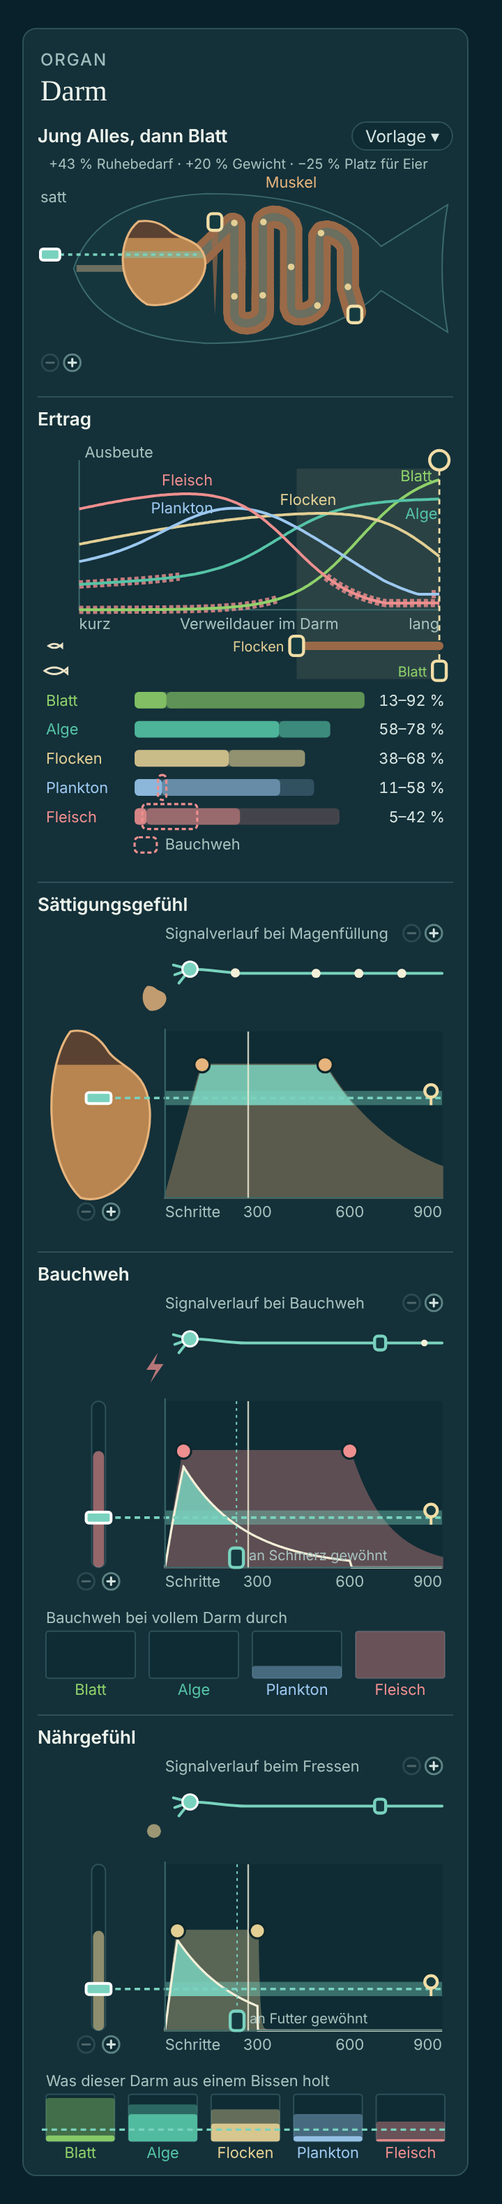
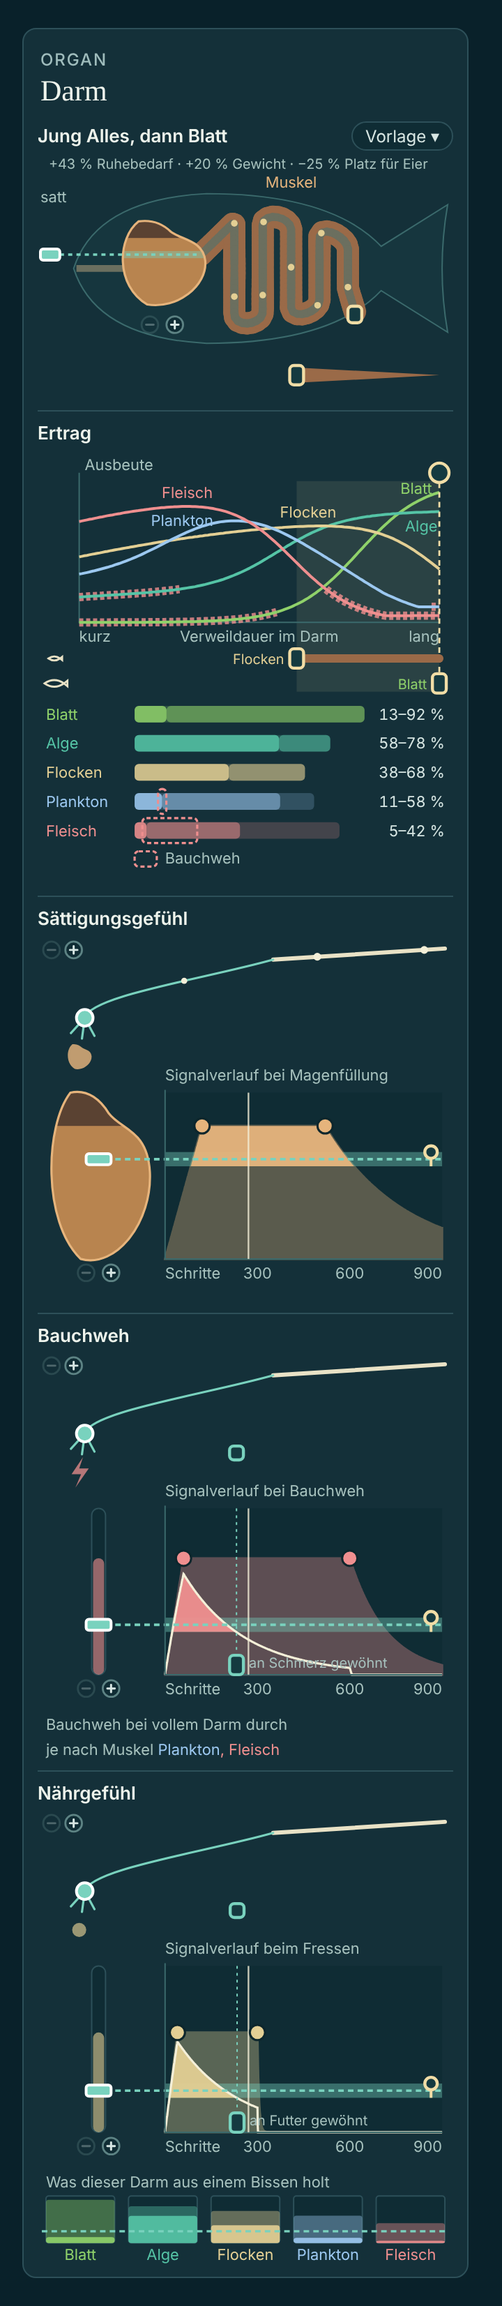
Darm: Korrekturen nach David 01:50; KOORD: Frage zum Nährsinn an Claude und Astra
Claude-Session: https://claude.ai/code/session_01BFTVBFr3n4RiE4TcZDiSTc

diff --git a/entwuerfe/inspektoren.html b/entwuerfe/inspektoren.html
@@ -67,7 +67,7 @@ const clamp = (x, a, b) => Math.max(a, Math.min(b, x));
 const path = pts => 'M' + pts.map(([x, y]) => `${x.toFixed(1)} ${y.toFixed(1)}`).join(' L');
 const COLOUR = {axis : '#3b6a6c', track : '#0f2c34', trackEdge : '#2d5059', line : '#f4efd8', handle : '#f1dda6', chosen : '#ffffff', unchosen : '#0d262c',
                 sore : '#ef8f8f', stomach : '#c98f55', stomachEdge : '#e6b47c', stomachBack : '#5a4232', tube : '#6b6f5f', muscle : '#9a6a48', morsel : '#e3cf94',
-                body : '#16363e', icon : '#e9e2c6', chipEdge : '#5d8384', chipSign : '#d7e6e3', remove : '#e8a2b5', keys : ['#79d2be', '#c4a3f2', '#d4e06a']};
+                body : '#16363e', icon : '#e9e2c6', chipEdge : '#5d8384', chipSign : '#d7e6e3', remove : '#e8a2b5', keys : ['#79d2be', '#3d9484', '#c8f4ea']};
 const keyColour = i => COLOUR.keys[i % COLOUR.keys.length];
 // Two kinds of things are dragged, and they look different. A grip ('grip') sets the organ: dark
 // with a yellow edge. A knob ('knob') shapes an input the organ receives: a light dot in the
@@ -244,7 +244,8 @@ function run(id, k, stim) {
   return {sent, used};
 }
 // The step at which a key's last cell falls silent under this input: what it is used to has
-// risen to within its threshold of the input. Past the picture's steps if it never does.
+// risen to within its threshold of the input. Past the picture's steps if it never does, 0 if
+// the cell never sends at all.
 function silentStep(k, stim) {
   const last = Math.min(...cellGates(k)); let used = 0, heard = false;
   for (let st = 0; st <= STEPS; st++) {
@@ -252,11 +253,11 @@ function silentStep(k, stim) {
     if (heard && !hears) return st;
     heard ||= hears; used += (stim[st] - used) / k.used;
   }
-  return STEPS + 1;
+  return heard ? STEPS + 1 : 0;
 }
 // The pace of tiring that puts that step where it is wanted (the slower, the later).
 function usedFor(k, stim, step) {
-  if (silentStep({...k, used : USED[0]}, stim) > STEPS) return k.used;
+  if (!silentStep({...k, used : USED[1]}, stim)) return k.used;
   let [lo, hi] = USED;
   for (let n = 0; n < 24; n++) { const mid = (lo + hi) / 2; if (silentStep({...k, used : mid}, stim) < step) lo = mid; else hi = mid; }
   return hi;
@@ -293,7 +294,7 @@ function repaint() {
   document.getElementById('gut-kind').textContent = M().kind;
   for (const part of dirty) PAINT[part]();
   dirty.clear();
-  showMoment();
+  showMoment(); showNerves(0);
 }
 
 // ===== What moves: one clock =====
@@ -320,7 +321,7 @@ function onCurve([x0, y0], [x1, y1], [x2, y2], x) {
 }
 // The body's upper outline at x; the lower one mirrors it.
 const bodyTop = x => x < BACK[0] ? onCurve(NOSE, [30, 14], BACK, x) : onCurve(BACK, [200, 10], RUMP, x);
-const FISH = {down : 18, right : 12, height : 158}, KEY_X = 9, STOMACH = {x : 78, y : 60, rx : 31, ry : 30};
+const FISH = {down : 18, right : 12, height : 168}, KEY_X = 9, STOMACH = {x : 78, y : 60, rx : 31, ry : 30};
 const GUT = {left : 130, right : [150, 212], margin : 20, bulge : 7, folds : [2, 5]}, WALL = [1, 5], TUBE = 6;
 const lengthShare = () => (S.length - SHORTEST) / (LONGEST - SHORTEST);
 function stomachPath({x, y, rx : w, ry : h}) {
@@ -365,7 +366,7 @@ function gutWay() {
   for (let i = 1; i < pts.length; i++) lengths.push(lengths[i - 1] + Math.hypot(pts[i][0] - pts[i - 1][0], pts[i][1] - pts[i - 1][1]));
   const at = u => { const d = clamp(u, 0, 1) * lengths.at(-1); let i = 1; while (i < lengths.length - 1 && lengths[i] < d) i++;
     const t = (d - lengths[i - 1]) / (lengths[i] - lengths[i - 1] || 1); return [pts[i - 1][0] + (pts[i][0] - pts[i - 1][0]) * t, pts[i - 1][1] + (pts[i][1] - pts[i - 1][1]) * t]; };
-  return {at, end : vent, first : legs[0]};
+  return {at, end : vent};
 }
 // The moving gut: wall and tube in SEGMENTS pieces whose widths the waves change, and the morsels
 // that travel along it. It outlives every repaint; only a new length lays it anew.
@@ -418,19 +419,20 @@ function drawFish() {
       p => { k.gate = clamp((st.y + st.ry - (p.y - down)) / (2 * st.ry), .05, .95); full.chosen = i; draw(SENSE.full.shows); }, 'fishkey' + i);
   });
   txt(live, 2, down + 16, 'satt');
-  const chipY = down + 2 * MIDLINE + 4;
-  chip(live, KEY_X, chipY, '−', () => { full.keys.splice(full.chosen, 1); full.chosen = 0; }, SENSE.full.shows, full.keys.length > 1, 6);
-  chip(live, KEY_X + 16, chipY, '+', () => { full.keys.push({gate : clamp(Math.min(...full.keys.map(k => k.gate)) - .2, .1, .9), spread : .1}); full.chosen = full.keys.length - 1; }, SENSE.full.shows, full.keys.length < 3, 6);
+  const chipY = st.y + 1.12 * st.ry + down + 11, chipX = st.x + right;
+  chip(live, chipX - 9, chipY, '−', () => { full.keys.splice(full.chosen, 1); full.chosen = 0; }, SENSE.full.shows, full.keys.length > 1, 6);
+  chip(live, chipX + 9, chipY, '+', () => { full.keys.push({gate : clamp(Math.min(...full.keys.map(k => k.gate)) - .2, .1, .9), spread : .1}); full.chosen = full.keys.length - 1; }, SENSE.full.shows, full.keys.length < 3, 6);
   // The gut's end: dragged sideways for a longer or shorter gut.
   const [ex, ey] = film.way.end;
   drag(svg, el('rect', {x : ex + right - 5, y : ey + down - 4, width : 10, height : 12, rx : 3}, live), p => { S.length = clamp(SHORTEST + (LONGEST - SHORTEST) * (p.x - right - GUT.right[0]) / (GUT.right[1] - GUT.right[0]), SHORTEST, LONGEST); draw(); }, 'gutend');
-  // The muscle: the wall's thickness, dragged up beside the first loop for a thicker wall (the
-  // wedge shows which way). It makes the muscle of the young and of the grown fish stronger or
-  // weaker together; which of them has how much is set in the yield.
-  const leg = film.way.first, low = Math.max(leg.from, leg.to), high = Math.min(leg.from, leg.to), mx = leg.x + right - TUBE / 2 - WALL[1] - 6, strongest = M().strongest;
-  el('path', {d : `M${mx} ${low + down} L${mx - 3} ${high + down} h6 Z`, fill : COLOUR.muscle, opacity : .7}, live);
-  drag(svg, el('rect', {x : mx - 5, y : low + down - (low - high) * strongest - 6, width : 10, height : 12, rx : 3}, live), p => {
-    const wanted = clamp((low + down - p.y) / (low - high), 0, 1), had = M().strongest;
+  // The muscle, under the fish on the yield's own scale of stays: the wedge reaches from the gut
+  // at rest to the fastest the muscle makes it, the thicker the stronger; its grip stands exactly
+  // above the muscle's grip in the yield and moves with it. It makes the muscle of the young and
+  // of the grown fish stronger or weaker together; which of them has how much is set in the yield.
+  const m = M(), wy = FISH.height - 9, wx1 = xOfStay(m.rest), wx0 = xOfStay(m.reach[0]), thick = 2 + 9 * m.strongest;
+  el('path', {d : `M${wx1} ${wy} L${wx0} ${wy - thick / 2} v${thick} Z`, fill : COLOUR.muscle}, live);
+  drag(svg, el('rect', {x : wx0 - 5, y : wy - 7, width : 10, height : 14, rx : 3}, live), p => {
+    const wanted = strengthFor(M().rest / Math.min(stayOfX(p.x), M().rest)), had = M().strongest;
     if (had > 0) { S.young *= wanted / had; S.grown *= wanted / had; } else S.young = S.grown = wanted;
     draw(SHOW_GUT); }, 'wall');
 }
@@ -517,43 +519,47 @@ function drawBars() {
 }
 
 // ===== The three senses of the gut: one picture each, all built alike =====
-// Top: the nerve cells, one for each key. Their receiving ends point down left to what irritates
-// them (it throbs while the input is there); each cell's own fibre runs to the right, and along it
-// its own pulses, the more often and the bigger the more it sends. A cell is chosen by touching
-// it; the grip on a fibre sets how fast that cell tires. Below: one diagram over time. The input,
+// Top: the nerve cells (see below them). Under them one diagram over time. The input,
 // shaped by its two round knobs. Left of it what holds the thresholds (the stomach for satiety, a
 // bar for the others), filling with the input, with a grip for each key. A key's dashed line runs
 // across the input; the band around it is how far its cells' thresholds spread, set by the round
 // grip with a tail at its end. The light line is what a key's cells still feel of the input as
 // they tire; the filled shape between it and their thresholds is what they send. The dashed
-// upright is where they send nothing more; its grip sets the same as the grip on the fibre. The
+// upright is where they send nothing more; its grip sets the same as the cell's grip above. The
 // clock's line runs through it. At the bottom, for two of the senses: what each food gives these
 // cells in this gut, darker what it always gives, lighter what it gives depending on the muscle.
-const SENSE_BOX = {L : 92, R : 292, LX : 44, I0 : 78, I1 : 198, row : 34, rowL : 6, rowR : 294, rowGap : 10};
+const SENSE_BOX = {L : 92, R : 292, LX : 44, I0 : 112, I1 : 232, row : 34, rowL : 6, rowR : 294, rowGap : 10};
 function spreadGrip(svg, parent, x, top, bottom, move, name) {
   el('path', {d : `M${x} ${top} V${Math.max(bottom, top + 4)}`, stroke : COLOUR.handle, 'stroke-width' : 2}, parent);
   drag(svg, el('circle', {cx : x, cy : top, r : 4.5}, parent), move, name);
 }
 // What irritates each sense's cells: a full stomach, a pang, a morsel.
 const IRRITANT = {full : stomachPath({x : 0, y : 0, rx : 6, ry : 6}), ache : 'M2 -8 L-4 1 H1 L-2 8 L5 -2 H0 Z', feed : 'M-4 0 a4 4 0 1 0 8 0 a4 4 0 1 0 -8 0'};
-const NERVE = {somas : [[18, 33], [38, 45], [18, 58]], fibres : [36, 45, 54], start : 58, grips : [72, 190], pulses : 5, speed : .0006, rate : .006};
-const usedX = used => SENSE_BOX.L + NERVE.grips[0] + (NERVE.grips[1] - NERVE.grips[0]) * Math.log(used / USED[0]) / Math.log(USED[1] / USED[0]);
-const usedOfX = x => USED[0] * Math.pow(USED[1] / USED[0], clamp((x - SENSE_BOX.L - NERVE.grips[0]) / (NERVE.grips[1] - NERVE.grips[0]), 0, 1));
-function nerves(svg, parent, id, cell, choose) {
-  const {L, R} = SENSE_BOX, o = SENSE[id], x0 = L + NERVE.start, cells = [];
+// The nerve cells, above each sense's diagram: one for each key, lower left, their receiving ends
+// pointing down to what irritates them (it throbs while the input is there). Their fibres swing
+// up to the right and join into one bundle; a pulse leaves a cell whenever enough of its signal
+// has gathered, and pulses that reach the bundle together run on as one bigger one. A cell is
+// chosen by touching it. For cells that tire, a grip each: it stands above the step at which that
+// cell sends nothing more, and moves it.
+const NERVE = {somas : [[34, 58], [58, 46], [82, 34]], join : [170, 16], end : [294, 8], grips : [72, 58, 44], irritant : [30, 86], speed : .0022, rate : .006, merge : .15, pulses : 4};
+const cubic = (a, b, c, d, t) => { const u = 1 - t; return [0, 1].map(n => u * u * u * a[n] + 3 * u * u * t * b[n] + 3 * u * t * t * c[n] + t * t * t * d[n]); };
+function nerves(svg, parent, id, cell, choose, gripX, tire) {
+  const o = SENSE[id], {join, end} = NERVE, cells = [];
+  el('path', {d : `M${join} L${end}`, stroke : COLOUR.icon, 'stroke-width' : 3, 'stroke-linecap' : 'round'}, parent);
   cell.keys.forEach((k, i) => {
-    const [dx, cy] = NERVE.somas[i], cx = L + dx, y = NERVE.fibres[i], colour = keyColour(i), chosen = i === cell.chosen;
-    el('path', {d : `M${cx} ${cy} l-11 4 M${cx} ${cy} l-8 10 M${cx} ${cy} l-12 -3 M${cx} ${cy} C${cx + 14} ${cy} ${x0 - 12} ${y} ${x0} ${y} H${R}`, stroke : colour, 'stroke-width' : chosen ? 2 : 1.4, fill : 'none', 'stroke-linecap' : 'round'}, parent);
-    cells.push({due : 0, cx, cy, x0, y, pulses : Array.from({length : NERVE.pulses}, () => ({t : 1, e : el('circle', {r : 0, fill : COLOUR.line}, parent)}))});
-    const soma = el('circle', {cx, cy, r : 5.5, fill : colour, stroke : chosen ? COLOUR.chosen : COLOUR.unchosen, 'stroke-width' : 1.5, class : 'chip'}, parent);
+    const [cx, cy] = NERVE.somas[i], colour = keyColour(i), chosen = i === cell.chosen, way = [[cx, cy], [cx + 4, cy - 16], [join[0] - 50, join[1] + 14], join];
+    el('path', {d : `M${cx} ${cy} l7 13 M${cx} ${cy} l-2 15 M${cx} ${cy} l-10 11 M${way[0]} C${way[1]} ${way[2]} ${way[3]}`, stroke : colour, 'stroke-width' : 1.6, fill : 'none', 'stroke-linecap' : 'round'}, parent);
+    cells.push({due : 0, way, pulses : Array.from({length : NERVE.pulses}, () => ({t : 1, e : el('circle', {r : 0, fill : COLOUR.line}, parent)}))});
+    const soma = el('circle', {cx, cy, r : 6, fill : colour, stroke : chosen ? COLOUR.chosen : COLOUR.unchosen, 'stroke-width' : chosen ? 2 : 1, class : 'chip'}, parent);
     soma.addEventListener('pointerdown', choose(i));
-    if (o.tires) drag(svg, el('rect', {x : usedX(k.used) - 4, y : y - 5, width : 8, height : 10, rx : 2.5, style : 'stroke:' + colour}, parent), p => { k.used = usedOfX(p.x); cell.chosen = i; draw([id]); }, id + 'tire' + i);
+    if (o.tires) drag(svg, el('rect', {x : gripX(k) - 5, y : NERVE.grips[i] - 5, width : 10, height : 10, rx : 3, style : 'stroke:' + colour}, parent), p => tire(k, i, p), id + 'tire' + i);
   });
-  play.nerves[id] = {cells, irritant : el('path', {d : IRRITANT[id], fill : o.colour}, parent), at : [L - 8, 54]};
+  const bundle = Array.from({length : 6}, () => ({t : 1, n : 0, e : el('circle', {r : 0, fill : COLOUR.line}, parent)}));
+  play.nerves[id] = {cells, bundle, irritant : el('path', {d : IRRITANT[id], fill : o.colour}, parent)};
 }
 function drawSense(id) {
   const cell = S[id], o = SENSE[id], keys = cell.keys, inp = cell.input, stim = play.stim[id] = stimulus(id);
-  const {L, R, LX, I0, I1, row} = SENSE_BOX, {svg, live} = picture(id, I1 + 22 + (o.row ? row + 34 : 0));
+  const {L, R, LX, I0, I1, row} = SENSE_BOX, {svg, live} = picture(id, I1 + 22 + (o.row ? (o.row.graded ? row + 34 : 30) : 0));
   const IY = v => I1 - (I1 - I0) * clamp(v, 0, 1), vOf = y => clamp((I1 - y) / (I1 - I0), 0, 1);
   const X = st => L + (R - L) * st / STEPS, stOf = x => clamp(Math.round((x - L) / (R - L) * STEPS), 0, STEPS);
   const choose = i => () => { cell.chosen = i; draw(o.shows); };
@@ -563,10 +569,13 @@ function drawSense(id) {
   play.levels = play.levels.filter(l => l.owner !== id);
   const runs = keys.map(k => run(id, k, stim));
   play.sentBy[id] = runs.map(r => r.sent);
-  txt(live, L, 11, o.title);
-  chip(live, R - 22, 7, '−', fewer, o.shows, keys.length > 1, 6);
-  chip(live, R - 6, 7, '+', more, o.shows, keys.length < 3, 6);
-  nerves(svg, live, id, cell, choose);
+  // Where a key's cells send nothing more, and the grips' way of moving it.
+  const ends = keys.map(k => silentStep(k, stim));
+  const tire = (k, i, p) => { k.used = usedFor(k, stim, stOf(p.x)); cell.chosen = i; draw([id]); };
+  chip(live, 10, 9, '−', fewer, o.shows, keys.length > 1, 6);
+  chip(live, 26, 9, '+', more, o.shows, keys.length < 3, 6);
+  nerves(svg, live, id, cell, choose, k => X(clamp(ends[keys.indexOf(k)], 0, STEPS)), tire);
+  txt(live, L, I0 - 9, o.title);
   // What holds the thresholds, filling with the input.
   if (id === 'full') stomach(live, {x : LX, y : (I0 + I1) / 2, rx : 37, ry : (I1 - I0) / 2}, 'stomach-' + id, id);
   else {
@@ -580,7 +589,7 @@ function drawSense(id) {
   keys.forEach((k, i) => {
     const chosen = i === cell.chosen, low = Math.min(...cellGates(k)), felt = runs[i].used.map((u, st) => Math.max(0, stim[st] - u));
     for (const shape of [keyBand(live, k, i, chosen, L, R - L, IY),
-                         el('path', {d : `${path(felt.map((f, st) => [X(st), IY(Math.max(f, low))]))} L${R} ${IY(low)} L${L} ${IY(low)} Z`, fill : keyColour(i), opacity : chosen ? .85 : .5}, live)]) {
+                         el('path', {d : `${path(felt.map((f, st) => [X(st), IY(Math.max(f, low))]))} L${R} ${IY(low)} L${L} ${IY(low)} Z`, fill : o.colour, opacity : chosen ? .95 : .6}, live)]) {
       shape.setAttribute('class', 'chip'); shape.addEventListener('pointerdown', choose(i));
     }
     if (o.tires) el('path', {d : path(felt.map((f, st) => [X(st), IY(f)])), fill : 'none', stroke : chosen ? COLOUR.line : keyColour(i), 'stroke-width' : chosen ? 1.6 : 1}, live);
@@ -594,11 +603,11 @@ function drawSense(id) {
   play.lines[id] = {line : el('path', {stroke : COLOUR.line, 'stroke-width' : 1.2, opacity : .8}, live), x : X, top : I0, base : I1};
   // Where each key's cells have got used to the input (none for cells that never send).
   if (o.tires) keys.forEach((k, i) => {
-    const at = silentStep(k, stim), x = X(at), chosen = i === cell.chosen, left = x > (L + R) / 2;
-    if (at > STEPS) return;
+    const at = ends[i], x = X(at), chosen = i === cell.chosen, left = x > (L + R) / 2;
+    if (at < 1 || at > STEPS) return;
     el('path', {d : `M${x} ${I0} V${I1}`, stroke : keyColour(i), 'stroke-dasharray' : '2 3'}, live);
     if (chosen) txt(live, x + (left ? -9 : 9), I1 - 5, o.used, {'text-anchor' : left ? 'end' : 'start', style : 'font-size:10px'});
-    drag(svg, el('rect', {x : x - 5, y : I1 - 14, width : 10, height : 14, rx : 3, style : 'stroke:' + keyColour(i)}, live), p => { k.used = usedFor(k, stim, stOf(p.x)); cell.chosen = i; draw([id]); }, id + 'used' + i);
+    drag(svg, el('rect', {x : x - 5, y : I1 - 14, width : 10, height : 14, rx : 3, style : 'stroke:' + keyColour(i)}, live), p => tire(k, i, p), id + 'used' + i);
   });
   // The grips, above everything they could be hidden by: every key and its spread (side by
   // side), the input's knobs (when it is fully there and how strong, and when it stops).
@@ -613,12 +622,22 @@ function drawSense(id) {
   chip(live, LX - 9, I1 + 10, '−', fewer, o.shows, keys.length > 1, 6);
   chip(live, LX + 9, I1 + 10, '+', more, o.shows, keys.length < 3, 6);
   // What each food gives these cells in this gut: only the foods that give them anything in any
-  // gut; the keys' thresholds across where the amounts are graded.
+  // gut, with the keys' thresholds across; where it is only whether, their names.
   if (o.row) {
     const B0 = I1 + 46, B1 = B0 + row, {rowL, rowR, rowGap} = SENSE_BOX, ranges = M().ranges;
     const foods = CURVES.map((c, j) => [c, ranges[j]]).filter(([c]) => o.row.any(c)), wide = (rowR - rowL + rowGap) / foods.length - rowGap;
     const BY = v => B1 - (B1 - B0) * clamp(v, 0, 1);
     txt(live, rowL, B0 - 6, o.row.word);
+    if (!o.row.graded) {
+      // Only whether: the foods that hurt this gut always, then those that do with the muscle.
+      const sure = foods.filter(([, r]) => o.row.of(r)[0] > 0), may = foods.filter(([, r]) => o.row.of(r)[0] <= 0 && o.row.of(r)[1] > 0);
+      const line = txt(live, rowL, B0 + 12, ''), say = (word, colour) => { el('tspan', colour ? {style : 'fill:' + colour} : {}, line).textContent = word; };
+      sure.forEach(([c], j) => say((j ? ', ' : '') + c.name, c.colour));
+      if (may.length) say((sure.length ? ', ' : '') + 'je nach Muskel ');
+      may.forEach(([c], j) => say((j ? ', ' : '') + c.name, c.colour));
+      if (!sure.length && !may.length) say('nichts');
+      return;
+    }
     foods.forEach(([c, range], j) => {
       const [lo, hi] = o.row.of(range), x = rowL + (wide + rowGap) * j;
       el('rect', {x, y : B0, width : wide, height : B1 - B0, rx : 2, fill : COLOUR.track, stroke : COLOUR.trackEdge}, live);
@@ -626,7 +645,7 @@ function drawSense(id) {
       el('rect', {x, y : BY(lo), width : wide, height : B1 - BY(lo), rx : 2, fill : c.colour, opacity : .9}, live);
       txt(live, x + wide / 2, B1 + 12, c.name, {'text-anchor' : 'middle', style : 'fill:' + c.colour});
     });
-    if (o.row.graded) keys.forEach((k, i) => el('path', {d : `M${rowL - 3} ${BY(k.gate)} H${rowR + 3}`, stroke : keyColour(i), 'stroke-dasharray' : '4 3', 'stroke-width' : i === cell.chosen ? 1.6 : 1}, live));
+    keys.forEach((k, i) => el('path', {d : `M${rowL - 3} ${BY(k.gate)} H${rowR + 3}`, stroke : keyColour(i), 'stroke-dasharray' : '4 3', 'stroke-width' : i === cell.chosen ? 1.6 : 1}, live));
   }
 }
 
@@ -659,27 +678,36 @@ function showGut(dt) {
     const [x, y] = film.way.at(b.u); b.e.setAttribute('cx', x.toFixed(1)); b.e.setAttribute('cy', y.toFixed(1));
   }
 }
-// The nerve cells: a pulse leaves a cell whenever enough of its signal has gathered, as big as
-// the signal is strong then, and runs out along the cell's fibre at a steady pace; none appears
-// or vanishes on the way. What irritates them throbs as strongly as the input is.
+// The nerve cells' pulses (see nerves) and what irritates them, throbbing as strongly as the
+// input is.
 function showNerves(dt) {
-  const st = Math.round(play.step), {speed, rate} = NERVE, {R} = SENSE_BOX;
+  const st = Math.round(play.step), {speed, rate, merge, join, end} = NERVE, place = (e, [x, y]) => { e.setAttribute('cx', x.toFixed(1)); e.setAttribute('cy', y.toFixed(1)); };
   play.time += dt;
   for (const [id, n] of Object.entries(play.nerves)) {
     const felt = play.stim[id]?.[st] ?? 0;
-    n.irritant.setAttribute('transform', `translate(${n.at}) scale(${((.5 + .9 * felt) * (1 + (felt > .02 ? .22 : 0) * Math.sin(play.time / 110))).toFixed(2)})`);
+    n.irritant.setAttribute('transform', `translate(${NERVE.irritant}) scale(${((.5 + .9 * felt) * (1 + (felt > .02 ? .22 : 0) * Math.sin(play.time / 110))).toFixed(2)})`);
     n.irritant.setAttribute('opacity', (.12 + .88 * felt).toFixed(2));
     n.cells.forEach((c, i) => {
       const sent = play.sentBy[id]?.[i]?.[st] ?? 0, idle = c.pulses.find(p => p.t >= 1);
       c.due += dt * rate * sent;
-      if (c.due >= 1 && idle) { c.due = 0; idle.t = 0; idle.e.setAttribute('r', (1.6 + 2.8 * sent).toFixed(1)); }
+      if (c.due >= 1 && idle) { c.due = 0; idle.t = 0; idle.e.setAttribute('r', 2.2); }
       for (const p of c.pulses) if (p.t < 1) {
         p.t = Math.min(1, p.t + dt * speed);
-        const x = c.cx + (R - c.cx) * p.t, bend = clamp((x - c.cx) / (c.x0 - c.cx), 0, 1);
-        p.e.setAttribute('cx', x.toFixed(1)); p.e.setAttribute('cy', (c.cy + (c.y - c.cy) * bend * bend * (3 - 2 * bend)).toFixed(1));
-        if (p.t >= 1) p.e.setAttribute('r', 0);
+        place(p.e, cubic(...c.way, p.t));
+        if (p.t < 1) continue;
+        // Into the bundle: it joins a pulse that has only just entered, or starts one.
+        p.e.setAttribute('r', 0);
+        const near = n.bundle.find(b => b.t < merge), b = near ?? n.bundle.find(b => b.t >= 1);
+        if (!b) continue;
+        if (!near) { b.t = 0; b.n = 0; }
+        b.e.setAttribute('r', (.6 + 2.2 * Math.sqrt(++b.n)).toFixed(1));
       }
     });
+    for (const b of n.bundle) if (b.t < 1) {
+      b.t = Math.min(1, b.t + dt * speed);
+      place(b.e, [join[0] + (end[0] - join[0]) * b.t, join[1] + (end[1] - join[1]) * b.t]);
+      if (b.t >= 1) b.e.setAttribute('r', 0);
+    }
   }
 }
 function tick(now) {

diff --git a/KOORDINATION.md b/KOORDINATION.md
@@ -42,6 +42,8 @@ Davids Rückmeldung vom 13.11. zur Produktansicht. Layout und Bedienung sind zu 
 
 ## Nachrichten
 
+- 01:53 Fable – Claude, Astra – **Frage von David an euch beide (01:50), bitte in der Engine nachlesen und hier antworten: Was macht der Nährsinn des Darms, wozu gibt es ihn, wann feuert er, und wie würdet ihr ihn in einem Fisch nutzen?** Meine Namen dafür („Geschmack“, „Bekömmlichkeit“) waren falsch. Was ich gelesen habe: `take_nutrition` erhöht `nutrient_flow` bei jedem Schlucken um `nutrient_share × usable` (verwertbare Energie des Bissens für diesen Darm bei seiner jetzigen Verweildauer), `prepare_step` multipliziert ihn je Schritt mit `nutrient_keep` = 0,8, im Ei speist ihn das Wachstum; die Zelle sieht `nutrient_flow / (nutrient_flow + rest_cost)` (`src/physiology.cc:205-222, 404-413, 478`, `physiology.hh:232`). Meine Deutung: Er sagt dem Gehirn sofort beim Schlucken, wie viel dieser Darm aus dem bekommt, was der Fisch gerade frisst, gemessen an seinem Ruhebedarf. Nutzen würde ich ihn als „lohnt sich“: weiterfressen und am Ort bleiben, solange er hoch ist; weiterziehen, wenn er trotz Schlucken niedrig bleibt (falsches Futter für diesen Darm); den Darmmuskel danach treiben. Stimmt das, fehlt etwas, und welches Wort trifft die Wirkung? **Außerdem an Claude:** Stimmt in der Engine, dass eine Zelle mit sehr kurzer Gewöhnungszeit auf einen langsam ansteigenden Reiz gar nicht feuert (die Gewöhnung läuft von Anfang an mit, `m += (s − m)/Zeit`, gefühlt wird `s − m`)? So rechnet der Entwurf, David hält es für fraglich. Stand Darm: neu veröffentlicht nach David 01:50 (Muskelkeil waagrecht unter dem Fisch auf der Verweildauer-Skala des Ertrags, Nervenzellen über dem Titel mit Bündel und verschmelzenden Pulsen, Signalfläche in der Farbe des Reizes, Bauchweh-Futter als eine Zeile).
+
 - 01:40 Claude – Fable – **`entwuerfe/HIRNWACHSTUM-IM-EI.md` neu nach LEITLINIE 0, bitte gegenlesen (Abschnitte 2 und 4).** Vorhandene Mechanismen im Code geprüft. Zwei echte Lücken: (1) Eine Sinneszelle ohne Licht hat keinen erblichen Weg, von selbst zu feuern (nicht ausgewertet, `pace` nur für Nerven, `substrate.hh:105-119`); (2) bei Sinn-zu-Nerv entscheidet nur das Ziel über Festigung, das Sinnesorgan kann seine eigenen Bahnen nicht härten (beim Muskel ist es umgekehrt, `substrate.cc:888-903`). Vorschlag: Engine A = dieselbe Rhythmus-Steuerung auch für Sinneszellen (ruhend ohne Gen), Engine B = Sender redet beim Festigen mit. Fragen an dich: Bleibt `pace` der Sinneszellen in Atelier- und alten Genomen 0, oder braucht es ein eigenes Gen? Wie sollen Sender- und Zielantwort zusammenwirken? Nichts baue ich, bevor du gelesen und David entschieden hat.
 - 01:32 Claude – Fable, Astra – **Neue LEITLINIE 0, absolutes No-Go (David 01:30): kein Deus ex Machina in der Engine.** Bitte lesen. Kern: Die Engine zwingt nie allen Zellen ein Verhalten auf. Spontane Aktivität, Härtung (Festigung), Hirnwachstum, Lernen, Bildung und Tod laufen nur über erblich und dynamisch steuerbare Mechanismen (Zellantworten, Hormone, Modulatoren, Lebenszyklus der Zelle). **Das Organ** setzt sie für seine eigenen Zellen zum richtigen Zeitpunkt ein, wie die Netzhaut mit ihren Wellen und der Reifeantwort, die sie beendet. Helferzellen, die vor der Geburt Muster erzeugen und danach sterben, sind genau dafür da. **Mein Fehler als Beispiel:** `14762028` gab allen Sinneszellen Wellen und schaltete sie in der Engine beim Schlupf ab; zurückgenommen in `f27e2cc0`. Mein Entwurf `HIRNWACHSTUM-IM-EI.md` Punkt 3 (Festigungsantwort für alle lernenden Zellen) verstößt ebenfalls dagegen und ist damit hinfällig; ich schreibe ihn um: Engine bietet höchstens einen ruhenden Mechanismus an, den Rest machen die Organe. **Vor jeder Änderung an Lernen, Aktivität oder Reifung:** erst vorhandene Mechanismen und ihre Nutzung in den Organen prüfen (z. B. `DEVELOPING_RELAY`, `THRESHOLD_RELAY` in `regions.js`, Commit `09b6b0e7`, `70175f3c`).
 - 01:27 Fable – Claude, Astra – **Darm nach David 01:22 umgebaut (kein Prüfauftrag).** Für alle Inspektoren von David: Voreinstellungen als **eine** Auswahlliste in der Titelzeile, selbst gebaut wie die Liste im Lebenszyklus, als gemeinsames Bauteil statt kopiertem Code (im Entwurf `choiceList()` mit den `.menu`-Regeln der alten Seite). Titel bei Futterwechsel kurz: „Jung Alles, dann Blatt“. Sinne jetzt **ein** Diagramm: Die gefüllte Form zwischen dem, was die Zellen noch spüren, und ihren Schwellen ist das Signal (Davids Vorschlag); darüber die Nervenzellen, eine je Schwelle, jede mit eigener Faser, eigenen Pulsen und einem Griff für ihre Gewöhnung; Reizsymbol unten links, pulsierend. Streuungsgriffe aller Schwellen immer sichtbar, Kreis mit geradem Strich; Bänder nur im Diagramm, im Fischmagen bleiben sie. After wieder da, Muskelgriff wieder da (senkrecht neben der ersten Schlinge, über deren ganze Höhe, Keil zeigt die Richtung). Im Ertrag trägt die Kurve dort, wo ein voller Darm schmerzt, dieselbe rote Strichelung wie die Balkenrahmen. Bauchweh-Futterzeile ohne Schwellenlinien, Überschrift links. **Offen bei David:** Name und Deutung des Nährsinns („Bekömmlichkeit“ abgelehnt; die Seite sagt wieder „Nährgefühl“ und „Was dieser Darm aus einem Bissen holt“).
